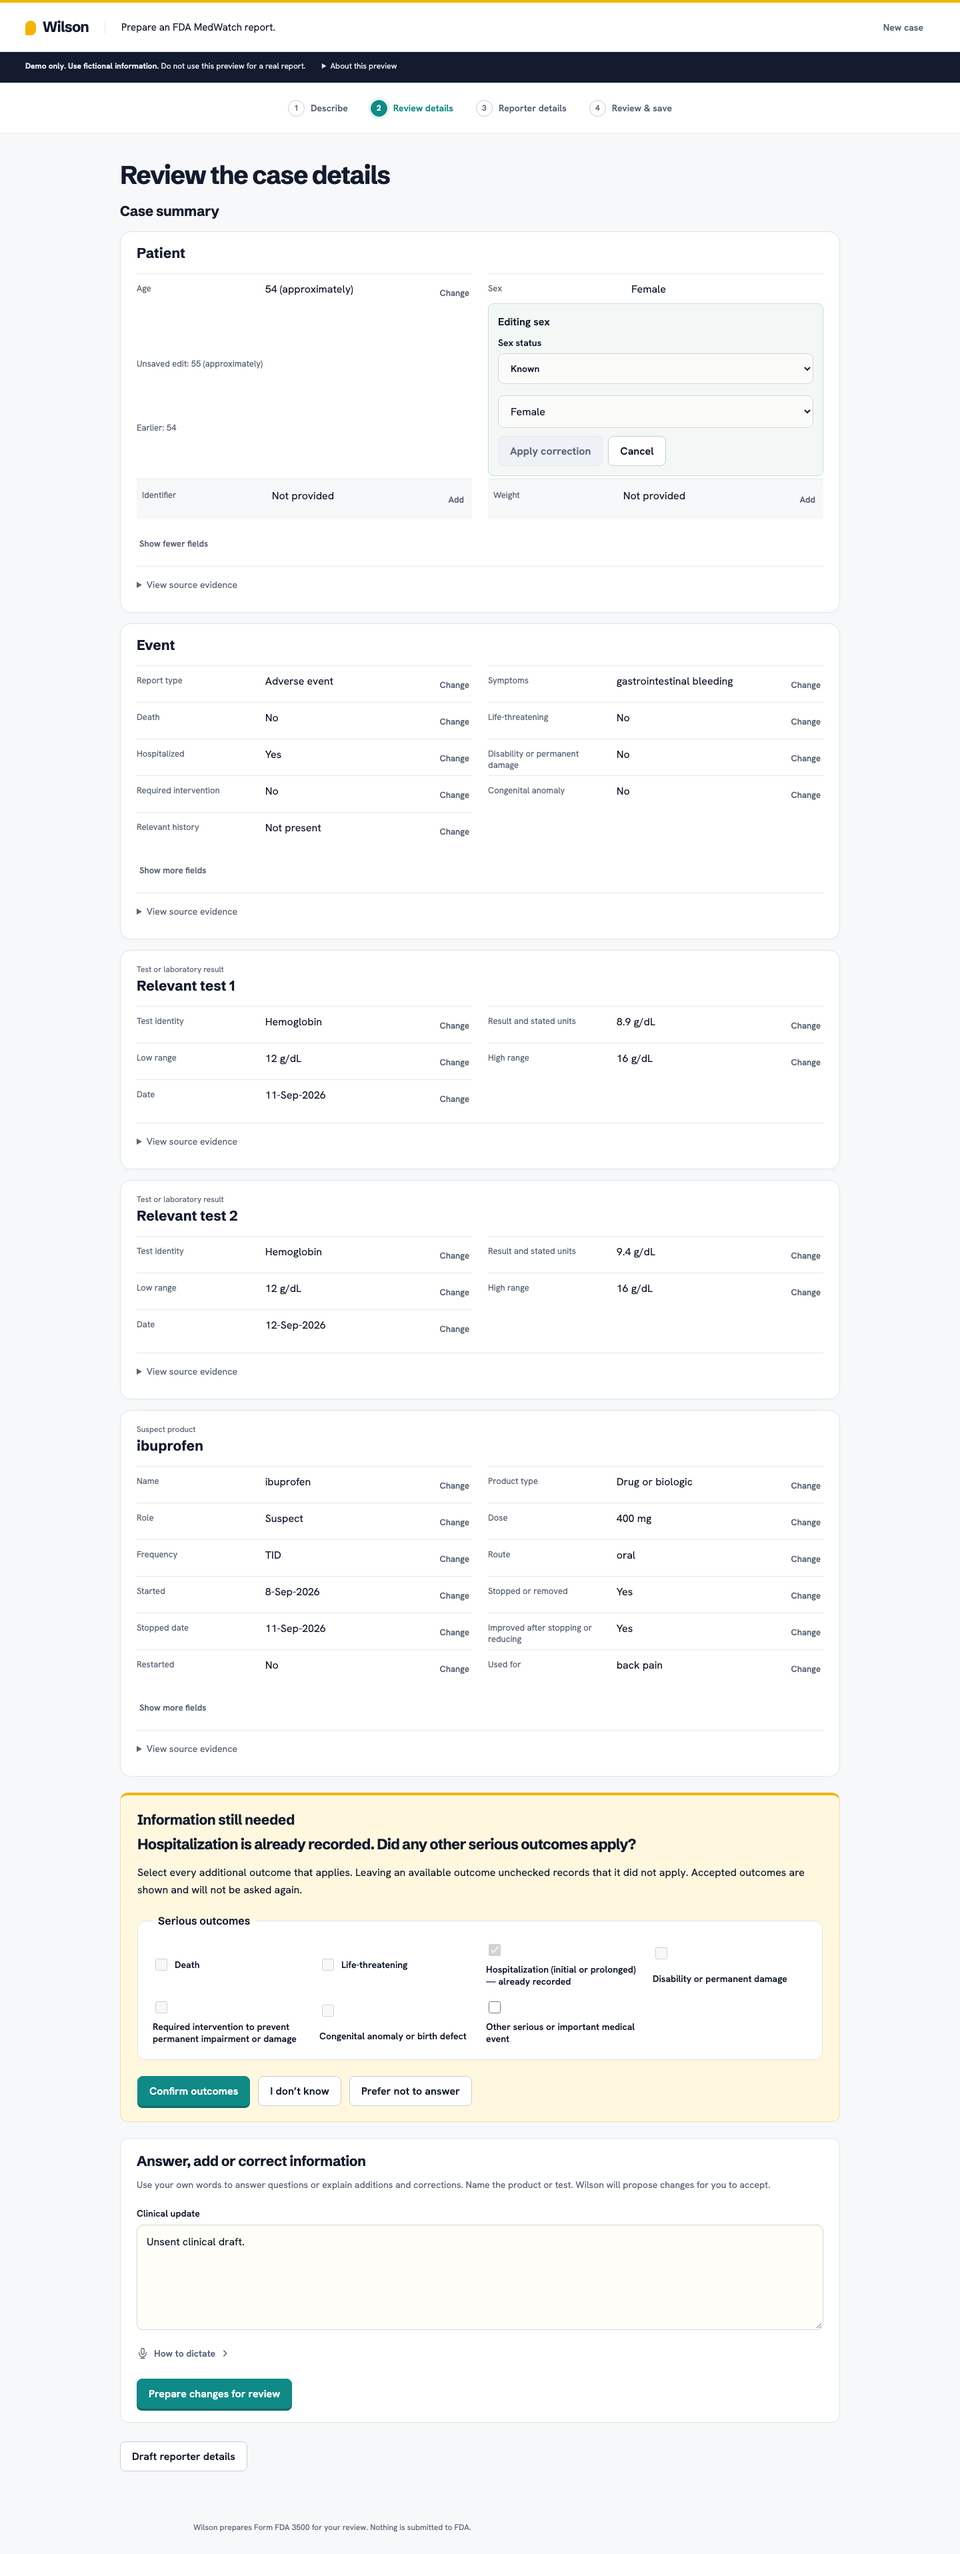
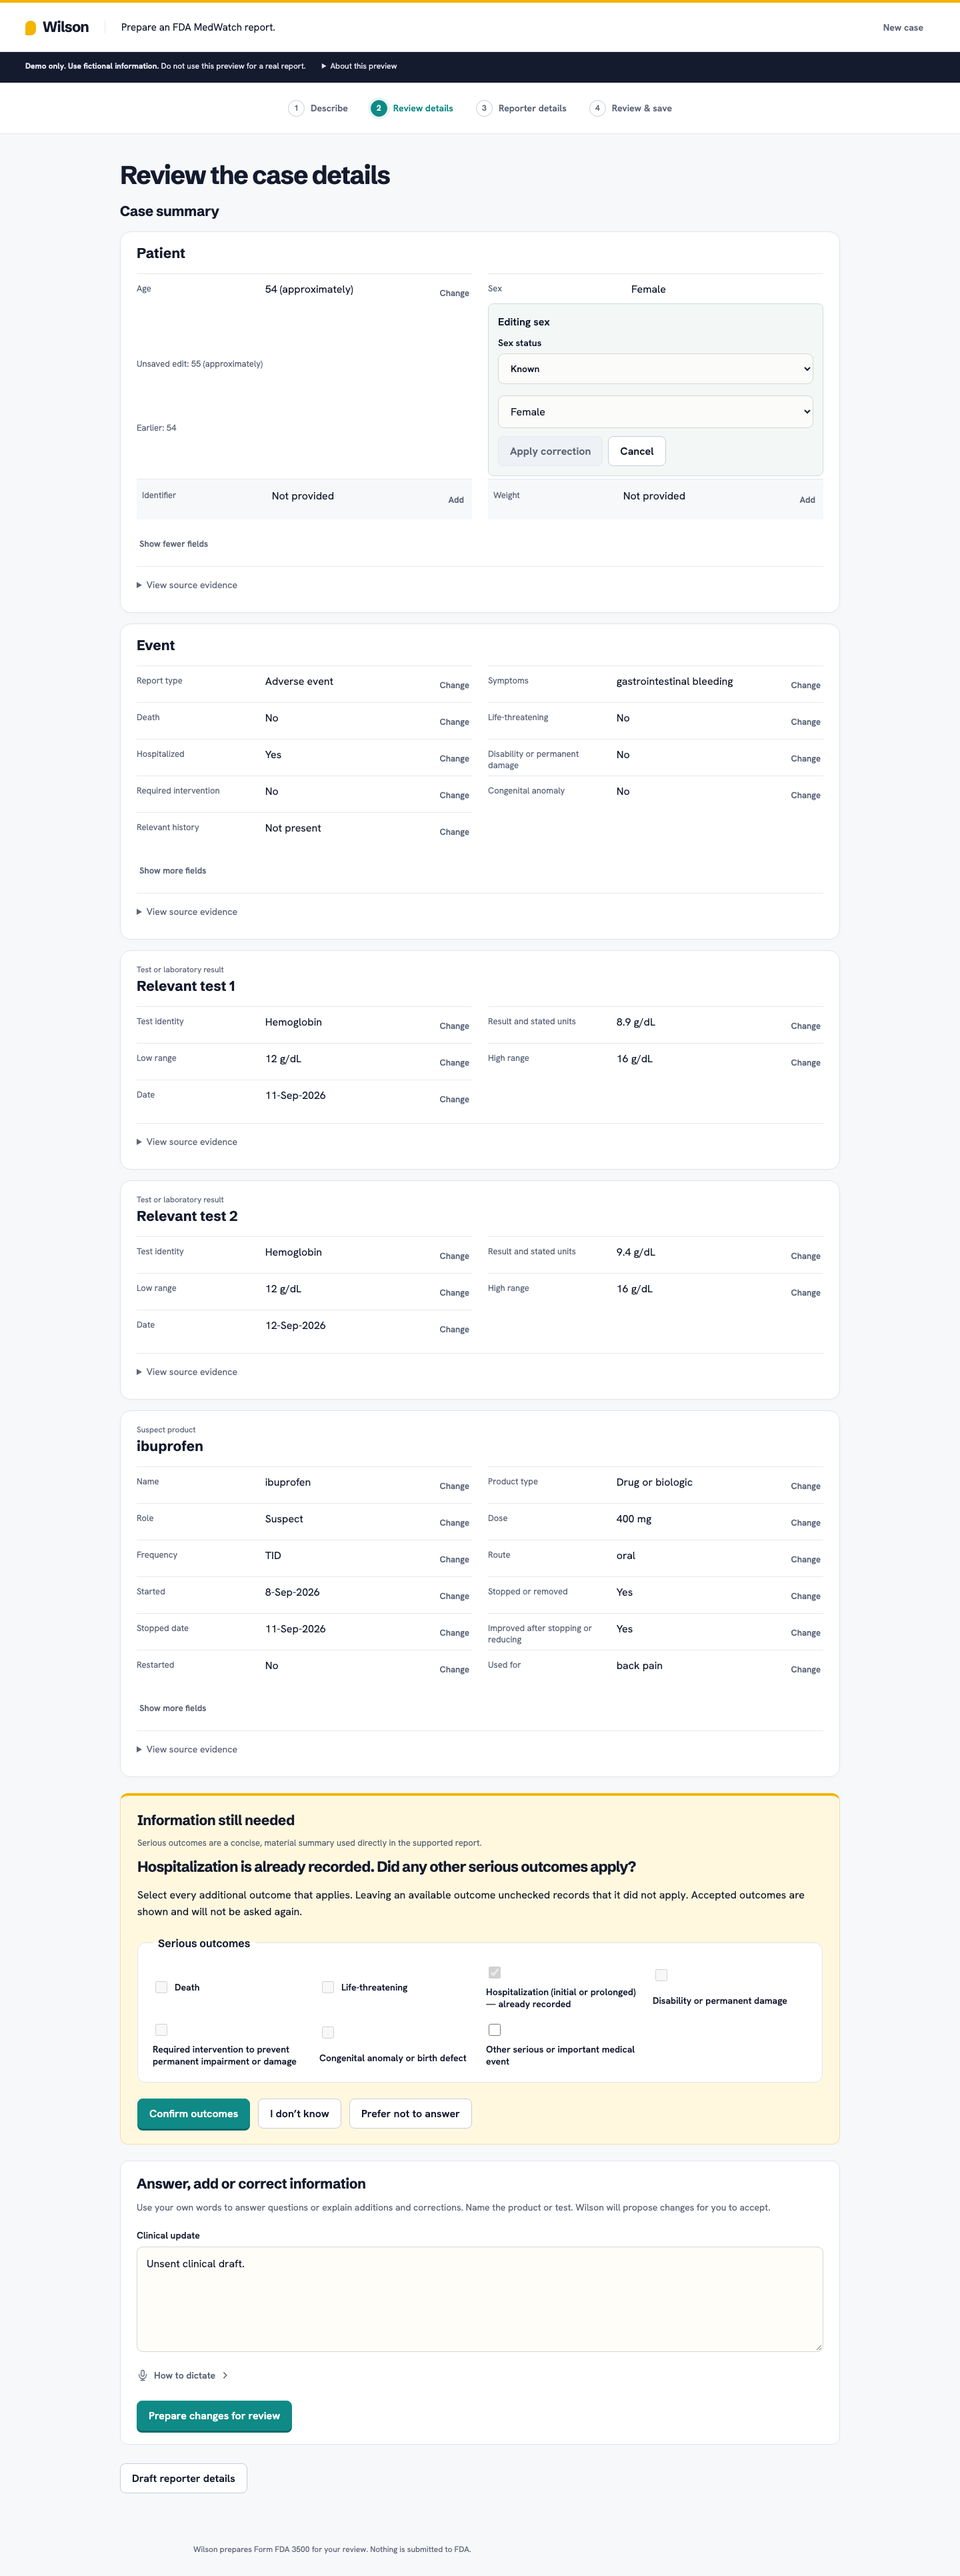
Preserve clinical question reasons and align editor state with displayed fields

diff --git a/app/journey.tsx b/app/journey.tsx
@@ -443,6 +443,7 @@ function CompletionTask(props: { snapshot: JourneySnapshot; busy: boolean; act: 
   const question = props.snapshot.clarification;
   if (!question) return null;
   return <>
+    <p className={styles.hint}>{question.reason}</p>
     {question.kind === "medication-history" && <MedicationTask {...props} />}
     {question.kind === "indications" && <IndicationTask {...props} />}
     {question.kind === "serious-outcomes" && <SeriousOutcomesTask {...props} />}
@@ -949,9 +950,11 @@ function CaseCard({ pendingUpdates = [], domId, title, eyebrow, entity, entityId
   // while opening/new-entity proposals still belong to this card.
   const cardValue = (fact: FactView | undefined) => fact?.resolved ?? fact?.proposals.find((proposal) => !updateIds.has(proposal.groupId))?.value;
   const additionalField = (field: string) => !cardValue(facts[field]) && !facts[field]?.history.length && !facts[field]?.conflicts.length;
-  const orderedFields = [...fields.filter((field) => !additionalField(field)), ...fields.filter(additionalField)];
+  const cardFields = fields.filter((field) => facts[field] && factControl(entity, field)
+    && !(additionalField(field) && facts[field].proposals.some(({ groupId }) => updateIds.has(groupId))));
+  const orderedFields = [...cardFields.filter((field) => !additionalField(field)), ...cardFields.filter(additionalField)];
   const editingAdditional = Boolean(editing && additionalField(editing));
-  const draftChanged = (field: string, value: EditableCaseValue) => !sameFieldValue(value, editableInitialValue(activeValue(facts[field]), factControl(entity, field)!));
+  const draftChanged = (field: string, value: EditableCaseValue) => !sameFieldValue(value, editableInitialValue(cardValue(facts[field]), factControl(entity, field)!));
   const finishEdit = (field: string, discard: boolean) => {
     focusAfterEdit.current = field;
     setEditing(undefined);
@@ -990,7 +993,6 @@ function CaseCard({ pendingUpdates = [], domId, title, eyebrow, entity, entityId
       const fact = facts[field];
       if (!fact || (groupedOutcomes && !showOutcomes && outcomeFields.includes(field))) return null;
       const value = cardValue(fact);
-      if (!value && fact.proposals.some(({ groupId }) => updateIds.has(groupId)) && !fact.history.length && !fact.conflicts.length) return null;
       if (!showMore && !value && fact.history.length === 0 && fact.conflicts.length === 0) return null;
       const proposal = fact.proposals.find(({ groupId: proposalGroup }) => proposalGroup === groupId);
       const editable = Boolean(((allowOpeningReview || reviewBlocked) && proposal) || allowDirectEdit);

diff --git a/tests/e2e/zzzzzz-flow-alignment.spec.ts b/tests/e2e/zzzzzz-flow-alignment.spec.ts
@@ -104,6 +104,7 @@ test("Draft 4 gaps: pending answers, separate tests, direct clinical recovery an
   await expect(test2.getByRole("button", { name: "Accept Relevant test 2", exact: true })).toHaveCount(0);
   await expect(page.getByRole("heading", { name: "Information still needed", exact: true })).toBeFocused();
   await expect(details.getByRole("heading", { name: "Hospitalization is already recorded. Did any other serious outcomes apply?", exact: true })).toHaveCount(1);
+  await expect(page.locator("#clinical-question")).toContainText("Serious outcomes are a concise, material summary used directly in the supported report.");
   await expect(invitation.getByLabel("Clinical update", { exact: true })).toHaveCount(0);
   await expect(details.getByRole("button", { name: "Answer clinical questions", exact: true })).toHaveCount(0);
   await expect(updatePanel.getByRole("button", { name: "How to dictate", exact: true })).toHaveAttribute("aria-expanded", "true");

diff --git a/tests/e2e/zz-draft4-navigation.spec.ts b/tests/e2e/zz-draft4-navigation.spec.ts
@@ -28,6 +28,7 @@ test("Draft 4 retains drafts and proposals across screens, revisits reporter det
   await expect(page.getByRole("button", { name: "Show more fields" }).first()).toBeVisible();
   await expect(page.locator('[id^="case-card-"]').getByText("Not provided", { exact: true })).toHaveCount(0);
   await expect(page.getByRole("region", { name: "Information still needed", exact: true })).toContainText("Treatment history for amoxicillin");
+  await expect(page.locator("#clinical-question")).toContainText("Answer only what you know; these observations do not establish causality.");
   await page.getByLabel("Clinical update", { exact: true }).fill(medicationSparseUpdate);
   await directAnswers(page);
   await page.getByLabel("Was this medication stopped?", { exact: true }).selectOption("true");

diff --git a/evidence/issue-122/README.md b/evidence/issue-122/README.md
@@ -55,6 +55,23 @@ and desktop/mobile shared editing. Unsigned access still redirects; the existing
 share works and expires 2026-09-27T21:15:51Z. Prior working deployment is retained
 for rollback. [Access verification](preview-access.json) contains no share token.
 
+The next unchanged-code CI run passed all 14 browser journeys as well as typecheck,
+234 tests and build:
+https://github.com/warblersafety/wilson-next/actions/runs/35965866534.
+
+Independent review identified the removed question-reason text. It is restored
+without the old generic `Clarify` prefix, preserving the authored explanation and
+medication non-causality wording; browser assertions cover medication and outcome
+reasons. Two bounded editor follow-ups use the displayed value as the dirty-state
+baseline and exclude suppressed proposal-only rows before choosing the first
+additional-field column marker. The PR records the complete review, precise
+dispositions and final post-remediation checks. Remaining non-blocking findings
+are deferred; no service or interpretation scope is added.
+
+Post-remediation local typecheck, build and six focused browser journeys pass.
+The retained screenshots are refreshed from that run, along with the independently
+decoded [actual PDF readback](pdf-readback.json), which matches the #109 baseline.
+
 All four focused no-interpretation journeys pass within that full run. They cover
 single question/proposal locations, pending versus missing states, source links,
 unchanged separate test acceptance and readiness, retained clinical/direct-answer/
